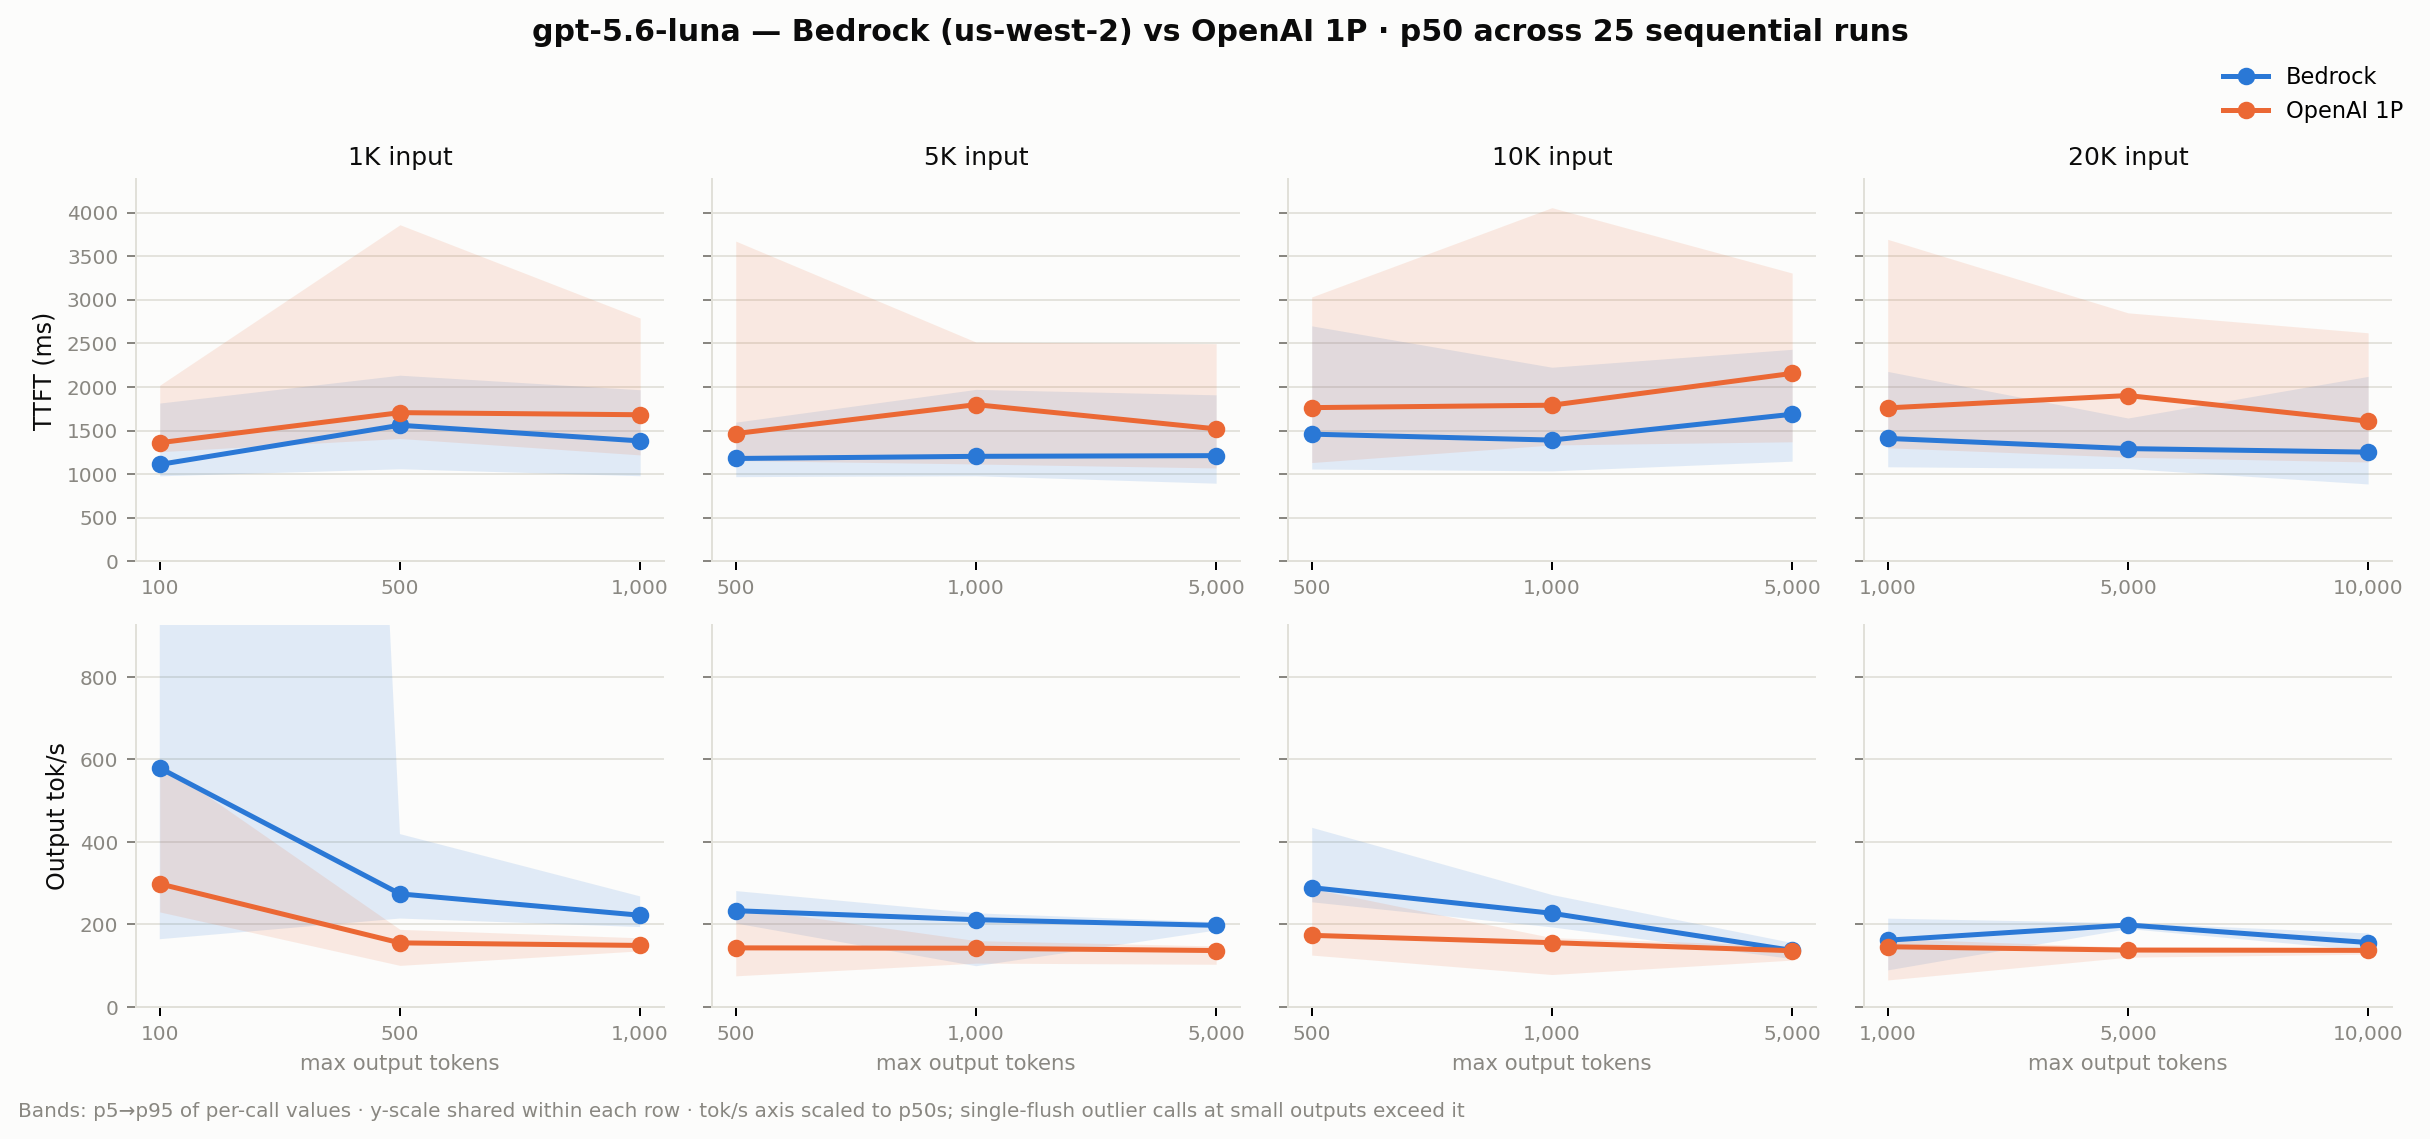
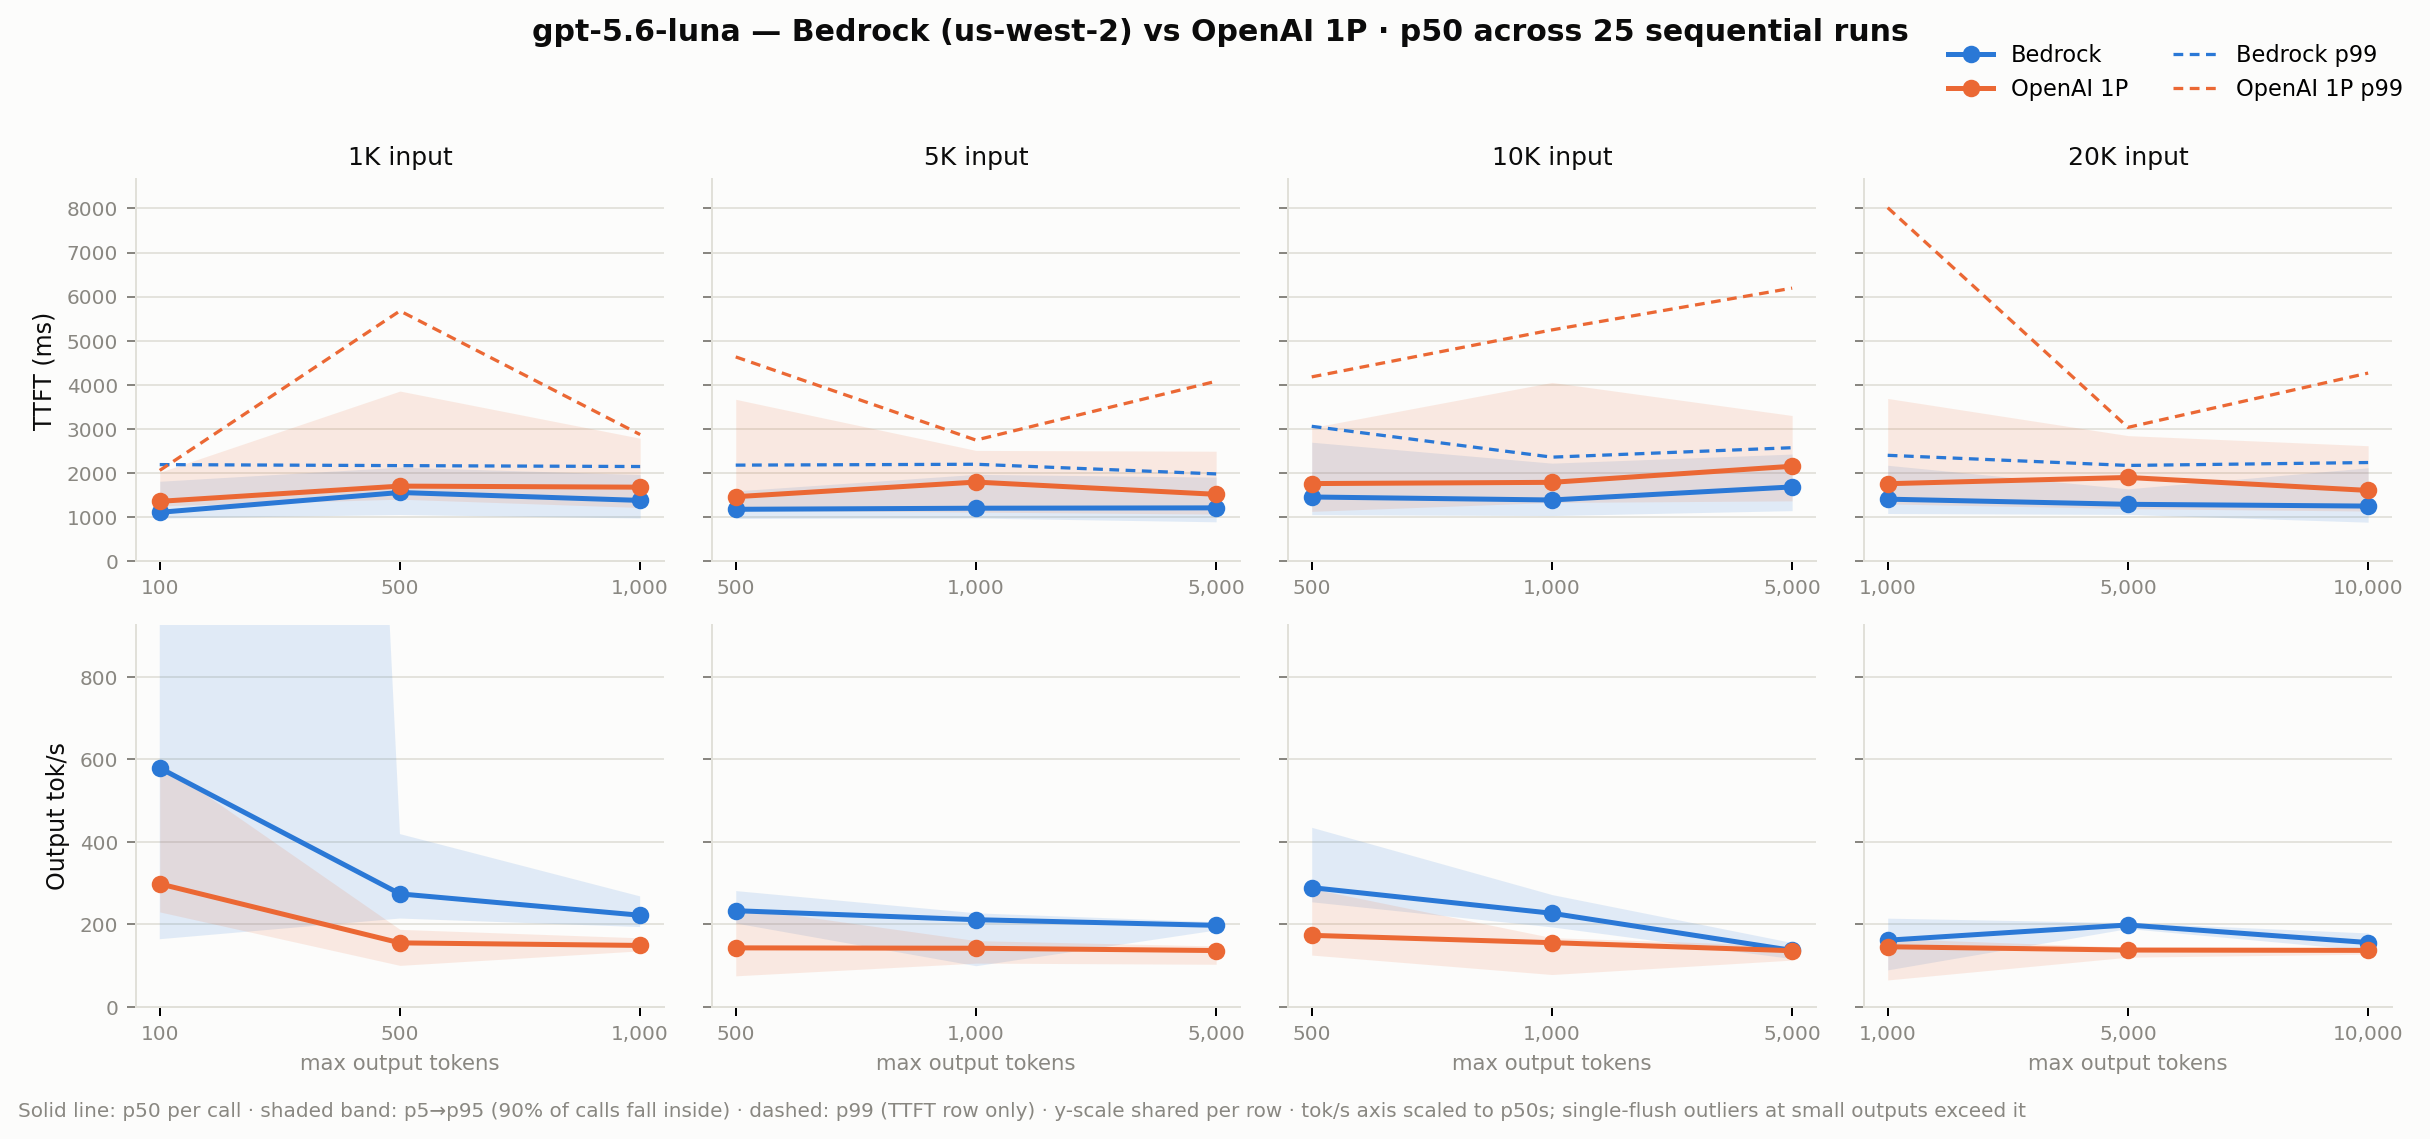
Report: p99 TTFT lines, band explainer, DOCX export
Charts add a dashed p99 tail line to the TTFT row and a plain-language
key (solid p50, band p5-p95, dashed p99). report.py now also emits
REPORT.docx via python-docx (gitignored like other .docx; rebuild with
python performance/report.py).

diff --git a/performance/report.py b/performance/report.py
@@ -180,11 +180,11 @@ def pctile(vals, p):
 
 
 def raw_band(payload, max_out, field):
-    """(p5, p50, p95) of a per-call field, from raw data (outlier-robust)."""
+    """(p5, p50, p95, p99) of a per-call field, from raw data (outlier-robust)."""
     vals = [r[field] for r in payload["raw"][str(max_out)] if not r["error"] and r[field]]
     if not vals:
-        return None, None, None
-    return pctile(vals, 5), pctile(vals, 50), pctile(vals, 95)
+        return None, None, None, None
+    return pctile(vals, 5), pctile(vals, 50), pctile(vals, 95), pctile(vals, 99)
 
 
 def build_chart(results, family, outfile):
@@ -214,10 +214,17 @@ def build_chart(results, family, outfile):
                 lo = [b[0] for b in bands]
                 p50 = [b[1] for b in bands]
                 hi = [b[2] for b in bands]
+                p99 = [b[3] for b in bands]
                 ax.plot(xs, p50, marker="o", markersize=6, linewidth=2, color=color,
                         label=label, zorder=3)
                 if all(v is not None for v in lo + hi):
                     ax.fill_between(xs, lo, hi, color=color, alpha=0.13, linewidth=0, zorder=2)
+                # p99 as a dashed tail line on latency panels only; on tok/s it
+                # tracks the burst outliers and would wreck the axis.
+                if metric == "ttft_ms" and all(v is not None for v in p99):
+                    ax.plot(xs, p99, linestyle=(0, (3, 2)), linewidth=1.3, color=color,
+                            label=f"{label} p99", zorder=3)
+                    band_vals += p99
                 vals += [v for v in p50 if v is not None]
                 band_vals += [v for v in hi if v is not None]
                 ax.set_xticks(xs)
@@ -247,11 +254,14 @@ def build_chart(results, family, outfile):
                 axes[row][col].set_yticklabels([])
 
     handles, labels = axes[0][0].get_legend_handles_labels()
-    fig.legend(handles, labels, loc="upper right", bbox_to_anchor=(0.995, 0.965),
+    order = [labels.index(x) for x in ["Bedrock", "OpenAI 1P", "Bedrock p99", "OpenAI 1P p99"] if x in labels]
+    fig.legend([handles[i] for i in order], [labels[i] for i in order],
+               loc="upper right", bbox_to_anchor=(0.995, 0.985), ncol=2,
                fontsize=9, frameon=False)
     fig.text(0.005, 0.005,
-             "Bands: p5→p95 of per-call values · y-scale shared within each row · "
-             "tok/s axis scaled to p50s; single-flush outlier calls at small outputs exceed it",
+             "Solid line: p50 per call · shaded band: p5→p95 (90% of calls fall inside) · "
+             "dashed: p99 (TTFT row only) · y-scale shared per row · "
+             "tok/s axis scaled to p50s; single-flush outliers at small outputs exceed it",
              fontsize=8, color=MUTED)
     fig.tight_layout(rect=[0, 0.02, 1, 0.95])
     # The metadata chunk also shifts the PNG byte stream if a chance base64
@@ -406,7 +416,9 @@ timestamped result JSONs in `performance/results/` at report build time.
 
 ### {section_no}.1 Benchmark chart
 
-Top row: TTFT p50 with p5→p95 band. Bottom row: output tok/s p50 with p5→p95 band.
+**How to read this chart:** the solid line is the median (p50) call. The shaded band spans
+p5→p95 — 90% of the 25 calls per config landed inside it, so a wide band means inconsistent
+latency, not measurement error. The dashed line (TTFT row only) is p99, the worst-case tail.
 One panel per input size; y-scale shared within each row.
 
 ![{family} benchmark chart]({charts[family]})
@@ -546,6 +558,70 @@ def md_to_html(md, charts):
 """
 
 
+# ----------------------------------------------------------------------- docx
+
+def md_to_docx(md, outfile):
+    from docx import Document
+    from docx.shared import Pt, Inches, RGBColor
+    from docx.enum.table import WD_TABLE_ALIGNMENT
+
+    doc = Document()
+    style = doc.styles["Normal"]
+    style.font.name = "Calibri"
+    style.font.size = Pt(10.5)
+
+    def add_runs(par, text):
+        # split on **bold** and `code`
+        for part in re.split(r"(\*\*.+?\*\*|`.+?`)", text):
+            if part.startswith("**") and part.endswith("**"):
+                r = par.add_run(part[2:-2]); r.bold = True
+            elif part.startswith("`") and part.endswith("`"):
+                r = par.add_run(part[1:-1]); r.font.name = "Courier New"; r.font.size = Pt(9.5)
+            elif part:
+                # strip markdown links down to their text
+                par.add_run(re.sub(r"\[(.+?)\]\(.+?\)", r"\1", part))
+
+    lines = md.splitlines()
+    i = 0
+    while i < len(lines):
+        l = lines[i]
+        img = re.match(r"!\[(.*?)\]\((.*?)\)", l.strip())
+        if img:
+            doc.add_picture(os.path.join(RESULTS_DIR, img.group(2)), width=Inches(6.8))
+        elif l.startswith("|"):
+            tbl = []
+            while i < len(lines) and lines[i].startswith("|"):
+                tbl.append(lines[i]); i += 1
+            rows = [[c.strip() for c in r.strip("|").split("|")] for r in tbl]
+            rows = [r for r in rows if not all(set(c) <= set("-: ") for c in r)]
+            t = doc.add_table(rows=len(rows), cols=len(rows[0]))
+            t.style = "Light Grid Accent 1"
+            t.alignment = WD_TABLE_ALIGNMENT.LEFT
+            for ri, row in enumerate(rows):
+                for ci, cell in enumerate(row):
+                    par = t.rows[ri].cells[ci].paragraphs[0]
+                    add_runs(par, cell)
+                    for r in par.runs:
+                        r.font.size = Pt(8.5)
+                        if ri == 0:
+                            r.bold = True
+            doc.add_paragraph()
+            continue
+        elif l.startswith("### "):
+            doc.add_heading(re.sub(r"[*`]", "", l[4:]), level=3)
+        elif l.startswith("## "):
+            doc.add_heading(re.sub(r"[*`]", "", l[3:]), level=2)
+        elif l.startswith("# "):
+            doc.add_heading(re.sub(r"[*`]", "", l[2:]), level=1)
+        elif l.startswith("- "):
+            add_runs(doc.add_paragraph(style="List Bullet"), l[2:])
+        elif l.strip():
+            add_runs(doc.add_paragraph(), l)
+        i += 1
+
+    doc.save(outfile)
+
+
 def main():
     results = load_results()
     md, charts = build_markdown(results)
@@ -555,8 +631,11 @@ def main():
     html_path = os.path.join(RESULTS_DIR, "REPORT.html")
     with open(html_path, "w") as f:
         f.write(md_to_html(md, charts))
+    docx_path = os.path.join(RESULTS_DIR, "REPORT.docx")
+    md_to_docx(md, docx_path)
     print(f"Wrote {md_path}")
     print(f"Wrote {html_path}")
+    print(f"Wrote {docx_path}")
     for family, png in charts.items():
         print(f"Wrote {os.path.join(RESULTS_DIR, png)}")
 

diff --git a/performance/results/REPORT.md b/performance/results/REPORT.md
@@ -1,6 +1,6 @@
 # GPT-5.6 on Amazon Bedrock vs OpenAI 1P — Latency Benchmark Report
 
-**Generated:** 2026-07-20 21:45 UTC · **Repo:** [openai-on-aws/benchmarks-openai](https://github.com/openai-on-aws/benchmarks-openai)
+**Generated:** 2026-07-20 21:55 UTC · **Repo:** [openai-on-aws/benchmarks-openai](https://github.com/openai-on-aws/benchmarks-openai)
 
 Both backends are exercised through an identical code path — the OpenAI Responses API with streaming
 (`performance/benchmark.py`). Metrics: **TTFT** (time to first output-text token), **Tok/s** (output tokens
@@ -53,7 +53,9 @@ timestamped result JSONs in `performance/results/` at report build time.
 
 ### 3.1 Benchmark chart
 
-Top row: TTFT p50 with p5→p95 band. Bottom row: output tok/s p50 with p5→p95 band.
+**How to read this chart:** the solid line is the median (p50) call. The shaded band spans
+p5→p95 — 90% of the 25 calls per config landed inside it, so a wide band means inconsistent
+latency, not measurement error. The dashed line (TTFT row only) is p99, the worst-case tail.
 One panel per input size; y-scale shared within each row.
 
 ![gpt-5.6-luna benchmark chart](chart_gpt-5.6-luna.png)
@@ -173,7 +175,9 @@ One panel per input size; y-scale shared within each row.
 
 ### 4.1 Benchmark chart
 
-Top row: TTFT p50 with p5→p95 band. Bottom row: output tok/s p50 with p5→p95 band.
+**How to read this chart:** the solid line is the median (p50) call. The shaded band spans
+p5→p95 — 90% of the 25 calls per config landed inside it, so a wide band means inconsistent
+latency, not measurement error. The dashed line (TTFT row only) is p99, the worst-case tail.
 One panel per input size; y-scale shared within each row.
 
 ![gpt-5.6-terra benchmark chart](chart_gpt-5.6-terra.png)